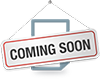
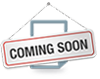
EWD-24179 - Adapt "choose question type" popover for low resolutions fix for disabled questions
Former-commit-id: 3d5c80470ca0ce4f5e6ee35f2e8053b51ea45025

diff --git a/sources/easygenerator.Web/Content/question.css b/sources/easygenerator.Web/Content/question.css
@@ -737,7 +737,7 @@
         height: 9px;
         width: 9px;
         position: absolute;
-        right: 65px;
+        right: 50px;
         top: -8px;
         -moz-transform: rotate(32deg) skewX(-30deg) skewY(-5deg);
         -ms-transform: rotate(32deg) skewX(-30deg) skewY(-5deg);
@@ -893,11 +893,11 @@
         .question-type-text.hotspot:before {
             background: url(images/hotspot-question.png) 0 0;
         }
-        
+
         .question-type-text.empty:before {
             height: 79px;
             width: 100px;
-            top: -13px;
+            top: -15px;
             margin-left: -50px;
             background-image: url('images/comingsoon1024.png');
         }
@@ -1189,17 +1189,17 @@
 }
 
 .upgrade-user-link {
-    border-radius: 4px;
-    cursor: pointer;
-    color: #56c0de;
+    display: inline-block;
+    height: 35px;
+    margin: 15px 0 30px;
+    padding: 9px 10px;
     background-color: #fff;
     border: 1px solid #56c0de;
-    margin: 15px 0 30px;
-    height: 35px;
+    border-radius: 4px;
+    color: #56c0de;
     font-family: 'OpenSans-Semibold';
     font-size: 12px;
-    padding: 9px 10px;
-    display: inline-block;
+    cursor: pointer;
 }
 
     .upgrade-user-link:hover {
@@ -1226,6 +1226,24 @@
         top: 50%;
         margin-top: -9px;
     }
+
+@media (max-height: 780px) {
+
+    .disabled-question-container {
+        height: 60px;
+        margin: 0 auto;
+        background-image: url(images/disabled-question1024.png);
+    }
+
+    .upgrade-user-link {
+        height: 25px;
+        margin: 13px 0 30px;
+        padding: 4px 5px;
+        border-radius: 3px;
+        color: #56c0de;
+        font-size: 11px;
+    }
+}
 
 /*#endregion Disabled question*/
 
